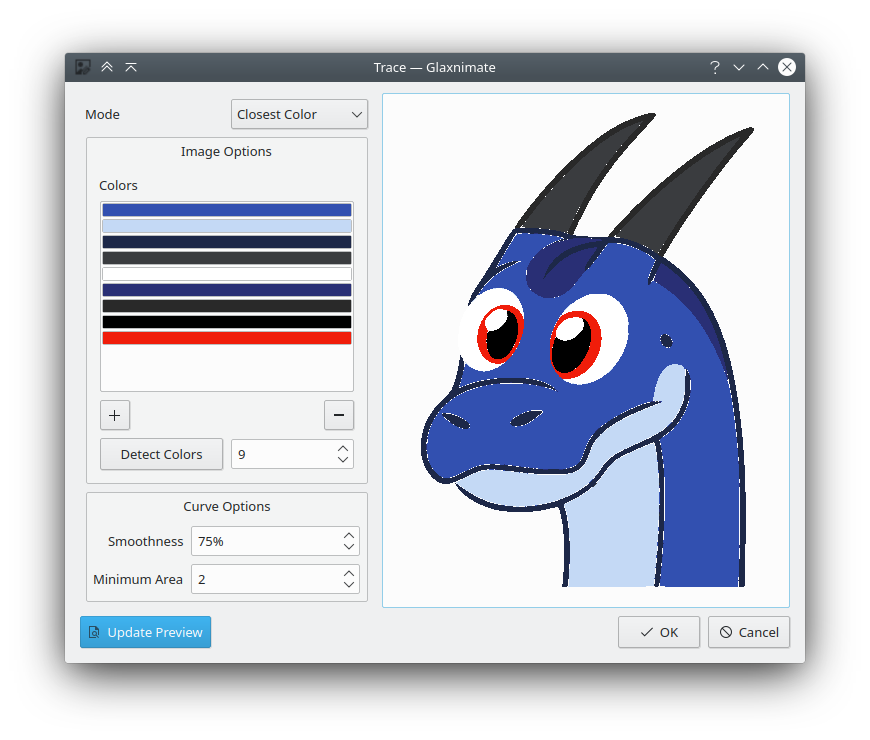
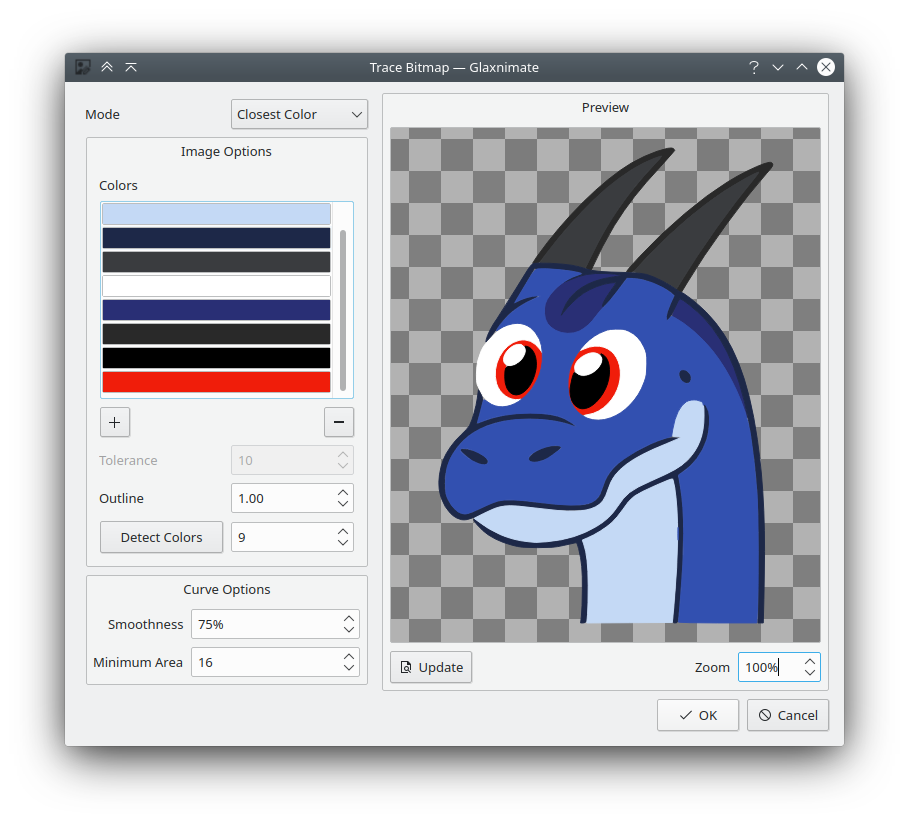
More improvements to the trace dialog

diff --git a/src/gui/widgets/dialogs/trace_dialog.cpp b/src/gui/widgets/dialogs/trace_dialog.cpp
@@ -8,8 +8,12 @@
 #include <QEvent>
 #include <QGraphicsScene>
 #include <QStandardItemModel>
+#include <QDesktopServices>
 
 #include <QtColorWidgets/ColorDelegate>
+
+#include "app/application.hpp"
+#include "app_info.hpp"
 
 #include "model/defs/bitmap.hpp"
 #include "model/shapes/group.hpp"
@@ -186,6 +190,14 @@ public:
     {
         ui.preview->fitInView(scene.sceneRect(), Qt::KeepAspectRatio);
         ui.preview->scale(zoom, zoom);
+        rescale_preview_background();
+    }
+
+    void rescale_preview_background()
+    {
+        QBrush b = ui.preview->backgroundBrush();
+        b.setTransform(ui.preview->transform().inverted());
+        ui.preview->setBackgroundBrush(b);
     }
 };
 
@@ -216,6 +228,8 @@ TraceDialog::TraceDialog(model::Image* image, QWidget* parent)
     }
 
     d->ui.combo_mode->setCurrentIndex(Private::Closest);
+
+    d->ui.preview->setBackgroundBrush(QPixmap(app::Application::instance()->data_file("images/widgets/background.png")));
 }
 
 TraceDialog::~TraceDialog() = default;
@@ -330,7 +344,7 @@ void TraceDialog::remove_color()
 
 void TraceDialog::auto_colors()
 {
-    /// \todo k-means or something
+    /// \todo k-medoids, octrees, or something like that
 
     std::unordered_map<QRgb, int> count;
     const uchar* data = d->source_image.constBits();
@@ -367,4 +381,13 @@ void TraceDialog::zoom_preview(qreal percent)
     qreal scale = percent / 100 / d->zoom;
     d->ui.preview->scale(scale, scale);
     d->zoom = percent / 100;
+    d->rescale_preview_background();
+}
+
+void TraceDialog::show_help()
+{
+    QUrl docs = AppInfo::instance().url_docs();
+    docs.setPath("/manual/ui/dialogs/");
+    docs.setFragment("trace-bitmap");
+    QDesktopServices::openUrl(docs);
 }

diff --git a/src/core/io/raster/raster_format.cpp b/src/core/io/raster/raster_format.cpp
@@ -27,5 +27,7 @@ bool io::raster::RasterFormat::on_open(QIODevice& dev, const QString&, model::Do
     img->transform->anchor_point.set(p);
     img->transform->position.set(p);
     document->main()->shapes.insert(std::move(img));
+    document->main()->width.set(bmp->pixmap().width());
+    document->main()->height.set(bmp->pixmap().height());
     return !bmp->pixmap().isNull();
 }

diff --git a/src/gui/widgets/dialogs/trace_dialog.hpp b/src/gui/widgets/dialogs/trace_dialog.hpp
@@ -31,6 +31,7 @@ private slots:
     void remove_color();
     void auto_colors();
     void zoom_preview(qreal percent);
+    void show_help();
 
 private:
     class Private;

diff --git a/docs/docs/manual/ui/dialogs.md b/docs/docs/manual/ui/dialogs.md
@@ -63,6 +63,11 @@ Alternatively, you can click on *Detect Colors* which will fill the list with
 the most common colors in the image (you select how many colors you want with
 the spin box next to the button.
 
+Sometimes there might be gaps between shapes of different colors, you can increase
+*Outline* to fill them up. When you have large outlines, the order of the colors in the list
+is important (shapes higher up on the list are drawn over the ones below).
+You can drag and drop colors in the list to rearrange them.
+
 ### Extract Colors
 
 ![Trace dialog](/img/screenshots/dialogs/trace/extract.png)
@@ -84,6 +89,9 @@ the best available color for each area.
 Generally, *Closest Color* is the best choice when you want to trace the whole image,
 *Extract Colors* when you only need specific elements.
 
+*Extract Colors* has the option *Tolerance*, which determines how close the pixels
+have to be to the specified color.
+
 ### Transparency
 
 ![Trace dialog](/img/screenshots/dialogs/trace/alpha.png)
@@ -97,6 +105,17 @@ It has the following options:
 * Threshold - Alpha value below which a pixel is considered transparent
 
 This mode is best suited for converting monochrome logos and the like.
+
+
+### Pixel
+
+![Trace dialog](/img/screenshots/dialogs/trace/pixel.png)
+
+This mode is designed for pixel art and is only available for small pictures.
+
+It keeps the edges of every pixel intact and uses all colors from the source image.
+
+With this mode there are no extra options.
 
 ### Curve Options
 

diff --git a/CHANGELOG.md b/CHANGELOG.md
@@ -24,6 +24,7 @@
     * File-based plugin icons are correctly loaded
     * Images are properly loaded from lottie files
     * Fixed crash when opening a document
+    * Opening a raster image correctly sets up the canvas size
 
 ## 0.2.0
 
